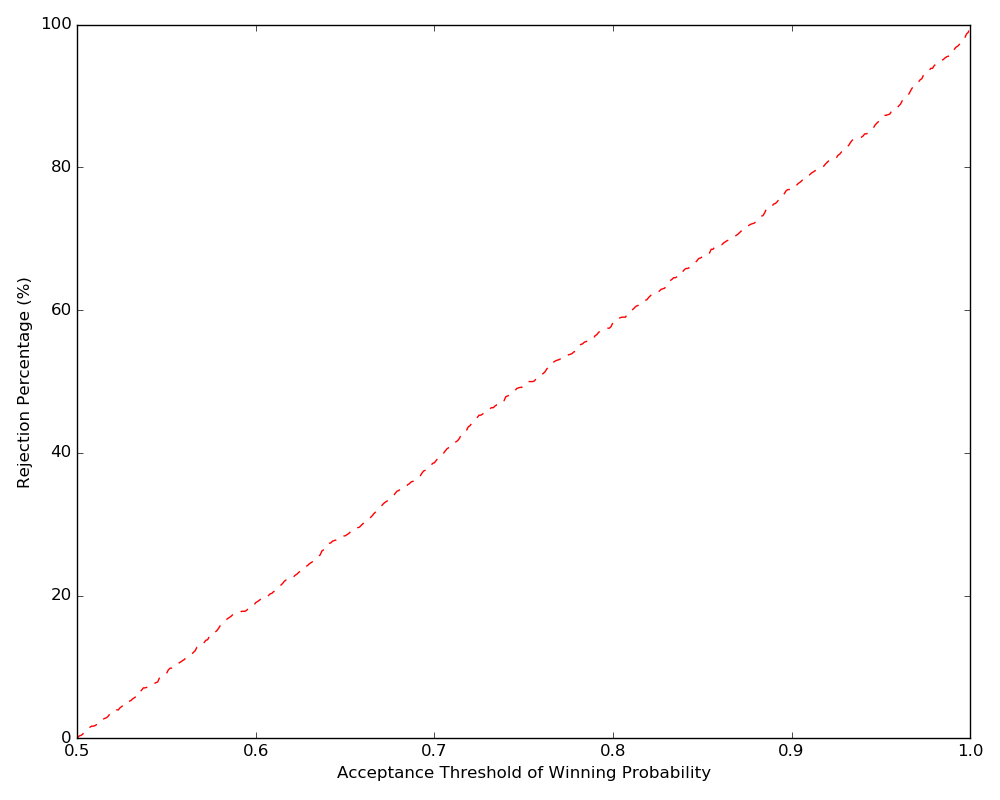
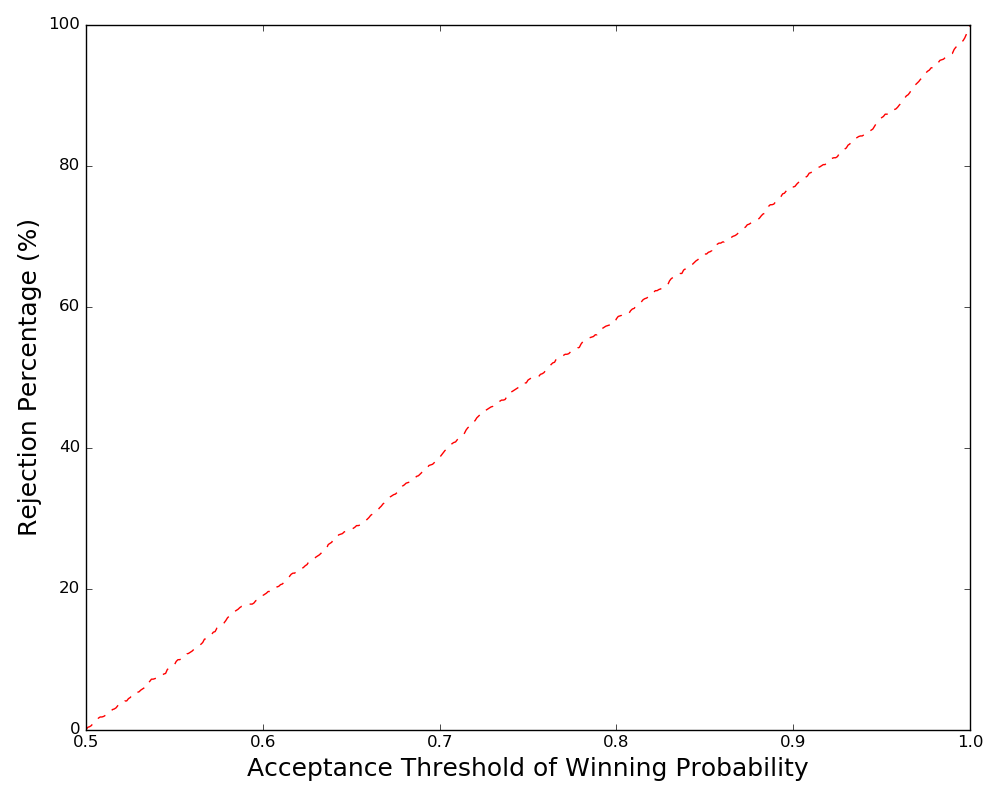
update diagrams

Changed region(s): [[0.0, 0.0, 0.992, 1.0], [0.0, 0.2812, 0.031, 0.3125]]

diff --git a/experiment-2014-2015/plot_data.py b/experiment-2014-2015/plot_data.py
@@ -5,139 +5,145 @@
 #  Author: Max W. Y. Lam (maxingaussian@gmail.com)
 ################################################################################
 
-import sys
-sys.path.append("../")
+import numpy as np
 import matplotlib.pyplot as plt
 from bisect import bisect_left
-from models import basketball_model
 import datetime as dt
 import matplotlib.dates as mdates
 import matplotlib.cbook as cbook
 from matplotlib.dates import MONDAY
 from matplotlib.dates import MonthLocator, WeekdayLocator, DateFormatter
+try:
+    from TLGProb import TLGProb
+except:
+    print("TLGProb is not installed yet! Trying to call directly from source...")
+    from sys import path
+    path.append("../")
+    from TLGProb import TLGProb
+    print("done.")
 
 
-def plot_unsmoothed_feature(bas, fig, ax, line, feature, player=None):
+def plot_unsmoothed_feature(TLGProb_NBA, fig, ax, line, feature, player=None):
     mondays = WeekdayLocator(MONDAY)
     months = MonthLocator(range(1, 13), bymonthday=1, interval=1)
-    monthsFmt = DateFormatter("%b '%y")
-    feature_ind = bas.key_to_player_input_id[feature]
+    monthsFmt = DateFormatter('%Y-%m')
+    feature_ind = TLGProb_NBA.key_to_player_input_id[feature]
     lines = []
     dates = []
-    for y, m, d in bas.game_dict['date']:
+    for y, m, d in TLGProb_NBA.game_dict['date']:
         date = dt.date(y, m, d)
         if(date not in dates):
             dates.append(date)
     if(player is not None):
         line_x, line_y = [], []
-        for i, date_int in enumerate(bas.player_to_date[player]):
+        for i, date_int in enumerate(TLGProb_NBA.player_to_date[player]):
             date = dt.date(int(date_int/10000.), int(date_int/100.)%100,date_int%100)
             line_x.append(date)
-            line_y.append(bas.player_to_attributes[player]["performance"][i, feature_ind])
+            line_y.append(TLGProb_NBA.player_to_attributes[player]["performance"][i, feature_ind])
         ax.plot_date(line_x, line_y, line, label=feature.upper()+" performance")
         ax.xaxis.set_major_locator(months)
         ax.xaxis.set_major_formatter(monthsFmt)
         ax.autoscale_view()
-        ax.grid(True)
+        ax.set_ylim([np.min(line_y)-0.1*np.std(line_y), np.max(line_y)+0.6*np.std(line_y)])
     else:
-        for player in bas.all_player:
+        for player in TLGProb_NBA.all_player:
             line_x, line_y = [], []
-            for i, date_int in enumerate(bas.player_to_date[player]):
+            for i, date_int in enumerate(TLGProb_NBA.player_to_date[player]):
                 date = dt.date(int(date_int/10000.), int(date_int/100.)%100,date_int%100)
                 line_x.append(date)
-                line_y.append(bas.player_to_attributes[player]["performance"][i, feature_ind])
+                line_y.append(TLGProb_NBA.player_to_attributes[player]["performance"][i, feature_ind])
             ax.plot_date(line_x, line_y, line, label=feature.upper()+" performance")
             ax.xaxis.set_major_locator(months)
             ax.xaxis.set_major_formatter(monthsFmt)
-            ax.xaxis.set_minor_locator(mondays)
             ax.autoscale_view()
-            ax.grid(True)
     fig.autofmt_xdate()
 
-def plot_smoothed_feature(bas, fig, ax, line, feature, player=None):
+def plot_smoothed_feature(TLGProb_NBA, fig, ax, line, feature, player=None):
     mondays = WeekdayLocator(MONDAY)
     months = MonthLocator(range(1, 13), bymonthday=1, interval=1)
-    monthsFmt = DateFormatter("%b '%y")
-    feature_ind = bas.key_to_player_input_id[feature]
+    monthsFmt = DateFormatter('%Y-%m')
+    feature_ind = TLGProb_NBA.key_to_player_input_id[feature]
     lines = []
     dates = []
-    for y, m, d in bas.game_dict['date']:
+    for y, m, d in TLGProb_NBA.game_dict['date']:
         date = dt.date(y, m, d)
         if(date not in dates):
             dates.append(date)
     if(player is not None):
         line_x, line_y = [], []
-        for i, date_int in enumerate(bas.player_to_date[player]):
+        for i, date_int in enumerate(TLGProb_NBA.player_to_date[player]):
             date = dt.date(int(date_int/10000.), int(date_int/100.)%100,date_int%100)
             line_x.append(date)
-            line_y.append(bas.player_to_attributes[player]["smoothed_performance"][i, feature_ind])
+            line_y.append(TLGProb_NBA.player_to_attributes[player]["smoothed_performance"][i, feature_ind])
         ax.plot_date(line_x, line_y, line, label=feature.upper()+" ability")
         ax.xaxis.set_major_locator(months)
         ax.xaxis.set_major_formatter(monthsFmt)
         ax.autoscale_view()
-        ax.grid(True)
     else:
-        for player in bas.all_player:
+        for player in TLGProb_NBA.all_player:
             line_x, line_y = [], []
-            for i, date_int in enumerate(bas.player_to_date[player]):
+            for i, date_int in enumerate(TLGProb_NBA.player_to_date[player]):
                 date = dt.date(int(date_int/10000.), int(date_int/100.)%100,date_int%100)
                 line_x.append(date)
-                line_y.append(bas.player_to_attributes[player]["smoothed_performance"][i, feature_ind])
+                line_y.append(TLGProb_NBA.player_to_attributes[player]["smoothed_performance"][i, feature_ind])
             ax.plot_date(line_x, line_y, line, label=feature.upper()+" ability")
             ax.xaxis.set_major_locator(months)
             ax.xaxis.set_major_formatter(monthsFmt)
-            ax.xaxis.set_minor_locator(mondays)
             ax.autoscale_view()
-            ax.grid(True)
     fig.autofmt_xdate()
 
-def plot_players_performance(bas):
-    plt.figure(len(bas.key_to_player_input_id)*2)
+def plot_players_performance(TLGProb_NBA):
+    plt.figure(len(TLGProb_NBA.key_to_player_input_id)*2)
     lines = []
     dates = []
-    for y, m, d in bas.game_dict['date']:
+    for y, m, d in TLGProb_NBA.game_dict['date']:
         date = y*10000+m*100+d
         if(date not in dates):
             dates.append(date)
-    for player in bas.all_player:
+    for player in TLGProb_NBA.all_player:
         line_x, line_y = [], []
-        for i, date in enumerate(bas.player_to_date[player]):
+        for i, date in enumerate(TLGProb_NBA.player_to_date[player]):
             date_ind = bisect_left(dates, date)
             line_x.append(date_ind)
-            line_y.append(bas.player_to_attributes[player]["+/-"][i])
+            line_y.append(TLGProb_NBA.player_to_attributes[player]["+/-"][i])
         plt.plot(line_x, line_y)
     plt.title("Time Series of Players' Performances")
     plt.xlabel("Date Index")
     plt.ylabel("Player Performance")
 
-def plot_players_ability(bas):
-    plt.figure(len(bas.key_to_player_input_id)*2+1)
+def plot_players_ability(TLGProb_NBA):
+    plt.figure(len(TLGProb_NBA.key_to_player_input_id)*2+1)
     lines = []
     dates = []
-    for y, m, d in bas.game_dict['date']:
+    for y, m, d in TLGProb_NBA.game_dict['date']:
         date = y*10000+m*100+d
         if(date not in dates):
             dates.append(date)
-    for player in bas.all_player:
+    for player in TLGProb_NBA.all_player:
         line_x, line_y = [], []
-        for i, date in enumerate(bas.player_to_date[player]):
+        for i, date in enumerate(TLGProb_NBA.player_to_date[player]):
             date_ind = bisect_left(dates, date)
             line_x.append(date_ind)
-            line_y.append(bas.player_to_attributes[player]["smoothed_plus_minus"][i])
+            line_y.append(TLGProb_NBA.player_to_attributes[player]["smoothed_plus_minus"][i])
         plt.plot(line_x, line_y)
     plt.title("Time Series of Players' Abilities")
     plt.xlabel("Date Index")
     plt.ylabel("Player Ability")
 
-bas = basketball_model()
-bas.load_data()
-fig, ax = plt.subplots(figsize=(10, 6), dpi=80)
+TLGProb_NBA = TLGProb()
+TLGProb_NBA.load_data()
+fig, ax = plt.subplots(2, 1, sharex=True, figsize=(10, 8), dpi=200)
 player = "LeBron James"
 feature = "3p"
-plot_unsmoothed_feature(bas, fig, ax, "b--", feature, player)
-plot_smoothed_feature(bas, fig, ax, "r-", feature, player)
-# plt.title("Time Series Plot of "+player+"'s "+feature.upper())
-plt.ylabel(feature.upper())
-plt.legend(loc="upper center")
+plot_unsmoothed_feature(TLGProb_NBA, fig, ax[0], "b--", feature, player)
+plot_smoothed_feature(TLGProb_NBA, fig, ax[0], "r-", feature, player)
+ax[0].legend(loc=9, prop={'size':15})
+ax[0].set_ylabel(feature.upper(), fontsize=18)
+ax[0].set_title(player+" in NBA 2014/2015 Season")
+feature = "fg"
+plot_unsmoothed_feature(TLGProb_NBA, fig, ax[1], "b--", feature, player)
+plot_smoothed_feature(TLGProb_NBA, fig, ax[1], "r-", feature, player)
+ax[1].legend(loc=9, prop={'size':15})
+ax[1].set_ylabel(feature.upper(), fontsize=18)
 plt.tight_layout()
-plt.show()
+fig.savefig('../lebron_james_3p_fg.png')

diff --git a/experiment-2014-2015/eval_model.py b/experiment-2014-2015/eval_model.py
@@ -51,39 +51,38 @@ for i in range(501):
 fig, ax = plt.subplots(figsize=(10, 8), dpi=160)
 ax.stackplot(thres, [incorrs, corrs], colors=["red", "green"], alpha=0.5)
 ax.set_xlim([0.5, 1])
-plt.xlabel("Acceptance Threshold of Winning Probability")
-plt.ylabel("Number of Matches")
+plt.xlabel("Acceptance Threshold of Winning Probability", fontsize=18)
+plt.ylabel("Number of Matches", fontsize=18)
 p1 = Rectangle((0, 0), 1, 1, fc="green", alpha=0.5)
 p2 = Rectangle((0, 0), 1, 1, fc="red", alpha=0.5)
-plt.legend([p1, p2], ['Correct Prediction', 'Incorrect Prediction'])
+plt.legend([p1, p2], ['Correct Prediction', 'Incorrect Prediction'], prop={'size':15})
 plt.tight_layout(True)
 fig.savefig('../correct_vs_incorrect.png')
 fig, ax = plt.subplots(figsize=(10, 8), dpi=160)
 ax.plot(line_x, line_y, 'b-', label="Accuracy")
 plt.xlim([0.5, 1.0])
 plt.ylim([line_y[0], 100.])
-plt.xlabel("Acceptance Threshold of Winning Probability")
-plt.ylabel("Accuracy (%)")
+plt.xlabel("Acceptance Threshold of Winning Probability", fontsize=18)
+plt.ylabel("Accuracy (%)", fontsize=18)
 plt.tight_layout(True)
-fig.savefig('../accurary.png')
+fig.savefig('../accuracy.png')
 fig, ax = plt.subplots(figsize=(10, 8), dpi=160)
 ax.plot(line_x, line_z, 'r--', label="Rejection percentage")
 plt.xlim([0.5, 1.0])
 plt.ylim([0., 100.])
-plt.xlabel("Acceptance Threshold of Winning Probability")
-plt.ylabel("Rejection Percentage (%)")
+plt.xlabel("Acceptance Threshold of Winning Probability", fontsize=18)
+plt.ylabel("Rejection Percentage (%)", fontsize=18)
 plt.tight_layout(True)
 fig.savefig('../rejection.png')
 fig, ax = plt.subplots(2, 1, sharex=True, figsize=(10, 8), dpi=160)
-ax[0].plot(line_x, line_y, 'b-', label="Accuracy")
+ax[0].stackplot(line_x, line_y, colors=['blue'])
 ax[0].set_xlim([0.5, 1.0])
 ax[0].set_ylim([line_y[0], 100.])
-ax[0].set_ylabel("Accuracy (%)")
-ax[1].plot(line_x, line_z, 'r--', label="Rejection percentage")
+ax[0].set_ylabel("Accuracy (%)", fontsize=18)
+ax[1].stackplot(line_x, line_z, colors=['blue'])
 ax[1].set_xlim([0.5, 1.0])
 ax[1].set_ylim([0., 100.])
-ax[1].set_xlabel("Acceptance Threshold of Winning Probability")
-ax[1].set_ylabel("Rejection Percentage (%)")
+ax[1].set_xlabel("Acceptance Threshold of Winning Probability", fontsize=18)
+ax[1].set_ylabel("Rejection Percentage (%)", fontsize=18)
 plt.tight_layout(True)
-fig.savefig('../accurary_vs_rejection.png')
-plt.show()
+fig.savefig('../accuracy_vs_rejection.png')
